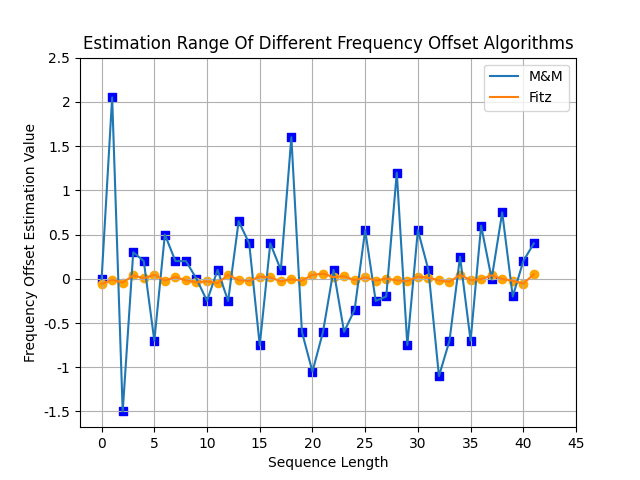
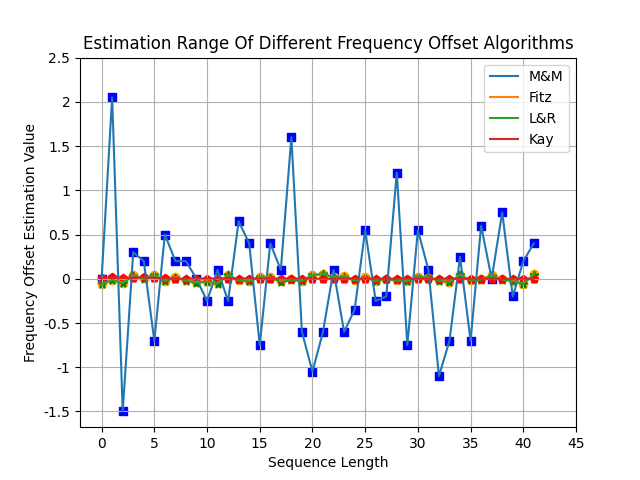
增加绘制不同频偏算法估计范围的图表

Changed region(s): [[0.1562, 0.5625, 0.8438, 0.5938], [0.75, 0.2188, 0.875, 0.3125]]

diff --git a/estimation_range_lab2.py b/estimation_range_lab2.py
@@ -8,15 +8,15 @@ for i in range(42):
 print(X)
 
 # Y轴数据
-MM_Y = [0, 2.05, -1.5, 0.3, 0.2, -0.7,
-        0.5, 0.2, 0.2, 0, -0.25,
-        0.1, -0.25, 0.65, 0.4, -0.75,
-        0.4, 0.1, 1.6, -0.6, -1.05,
-        -0.6, 0.1, -0.6, -0.35, 0.55,
-        -0.25, -0.2, 1.2, -0.75, 0.55,
-        0.1, -1.1, -0.7, 0.25, -0.7,
-        0.6, 0, 0.75, -0.2, 0.2,
-        0.4]
+# MM_Y = [0, 2.05, -1.5, 0.3, 0.2, -0.7,
+#         0.5, 0.2, 0.2, 0, -0.25,
+#         0.1, -0.25, 0.65, 0.4, -0.75,
+#         0.4, 0.1, 1.6, -0.6, -1.05,
+#         -0.6, 0.1, -0.6, -0.35, 0.55,
+#         -0.25, -0.2, 1.2, -0.75, 0.55,
+#         0.1, -1.1, -0.7, 0.25, -0.7,
+#         0.6, 0, 0.75, -0.2, 0.2,
+#         0.4]
 FITZ_Y = [-0.06, -0.01, -0.043, 0.038, 0.005, 0.045,
           -0.02, 0.019, -0.018, -0.04, -0.029,
           -0.049, 0.044, -0.015, -0.025, 0.025,
@@ -47,21 +47,21 @@ KAY_Y = [0.012, 0.015, 0.0125, 0.014, 0.0156, 0.009,
 
 
 fig, ax = plt.subplots()
-ax.plot(X, MM_Y, label='M&M')
+# ax.plot(X, MM_Y, label='M&M')
 ax.plot(X, FITZ_Y, label='Fitz')
 ax.plot(X, LR_Y, label='L&R')
 ax.plot(X, KAY_Y, label='Kay')
 # ax.plot(X, MM_FITZ_Y, label='M&M+Fitz')
 
 # 标记点
+# for i in range(42):
+#     plt.scatter(X[i], MM_Y[i], color='blue', marker='s')
 for i in range(42):
-    plt.scatter(X[i], MM_Y[i], color='blue', marker='s')
+    plt.scatter(X[i], FITZ_Y[i], color='blue', marker='s')
 for i in range(42):
-    plt.scatter(X[i], FITZ_Y[i], color='orange', marker='o')
+    plt.scatter(X[i], LR_Y[i], color='orange', marker='o')
 for i in range(42):
-    plt.scatter(X[i], LR_Y[i], color='green', marker='*')
-for i in range(42):
-    plt.scatter(X[i], KAY_Y[i], color='red', marker='p')
+    plt.scatter(X[i], KAY_Y[i], color='green', marker='*')
 # for i in range(9):
 #     plt.scatter(X[i], MM_Y[i], color='purple', marker='>')
 # for i in range(9):
@@ -70,8 +70,8 @@ for i in range(42):
 # 设置刻度值
 plt.xticks([0, 5, 10, 15, 20, 25, 30, 35, 40, 45],
            ['0', '5', '10', '15', '20', '25', '30', '35', '40', '45'])
-plt.yticks([-1.5, -1, -0.5, 0, 0.5, 1, 1.5, 2, 2.5],
-           ['-1.5', '-1', '-0.5', '0', '0.5', '1', '1.5', '2', '2.5'])
+plt.yticks([-0.06, -0.04, -0.02, 0, 0.02, 0.04, 0.06, 0.08],
+           ['-0.06', '-0.04', '-0.02', '0', '0.02', '0.04', '0.06', '0.08'])
 
 # 设置图表标题、坐标轴标签等
 ax.set_title("Estimation Range Of Different Frequency Offset Algorithms")
@@ -82,5 +82,5 @@ ax.set_ylabel("Frequency Offset Estimation Value")
 plt.legend()
 plt.grid(True)
 # 保存图表到文件
-plt.savefig('img/Estimation_Range_Lab.png')
+plt.savefig('img/Estimation_Range_Lab2.png')
 plt.show()
